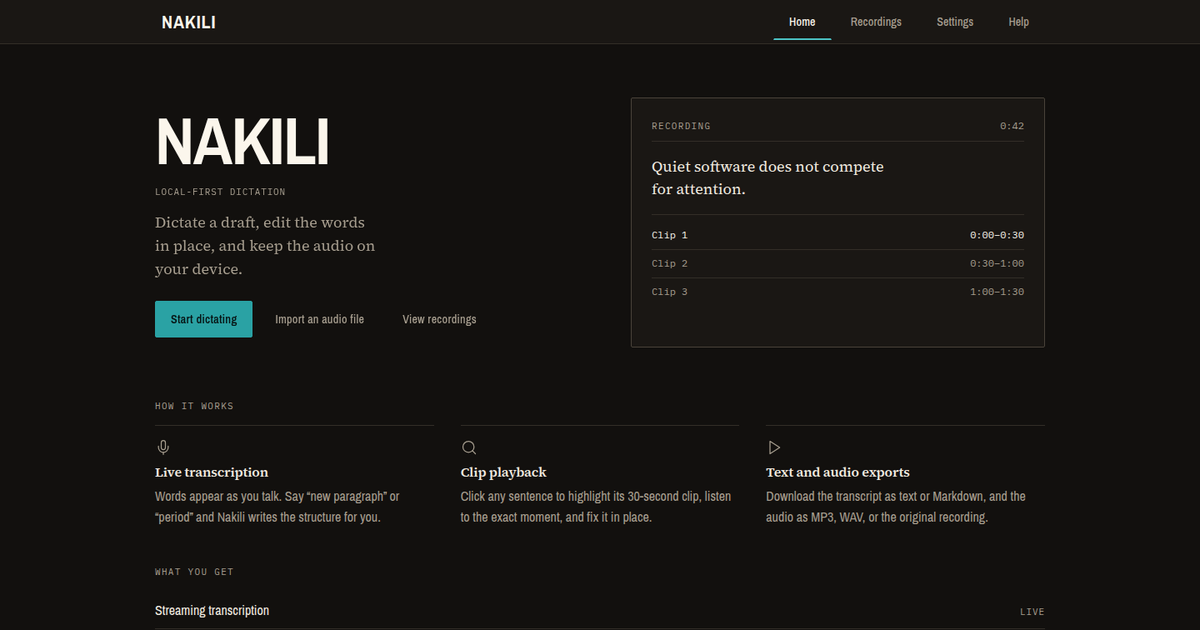
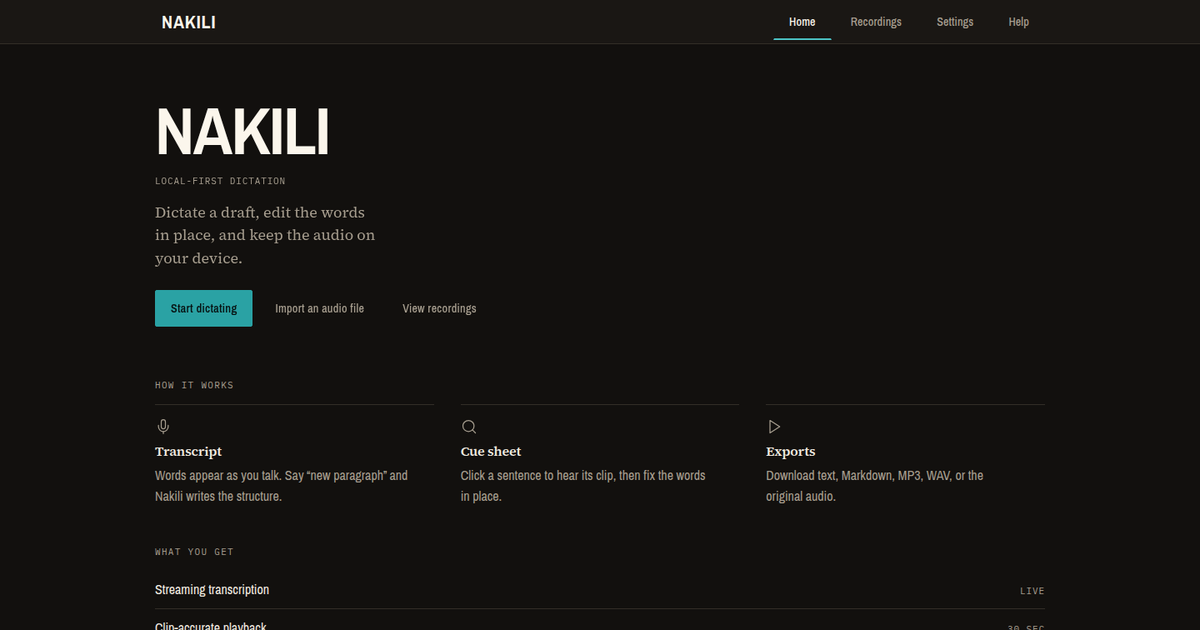
fix: welcome page and switches — remove the landing preview card, replace the square-thumb toggle with a standard teal switch, and drop the dead preview styles

diff --git a/src/styles/global.css b/src/styles/global.css
@@ -55,6 +55,7 @@
   --cta-fg: #071414;
   --danger: #b3261e;
   --ring: #1f7f81;
+  --switch-thumb: #f7f8f4;
 
   --font-ui: 'Archivo Narrow', 'Arial Narrow', system-ui, sans-serif;
   --font-body: var(--font-ui);
@@ -237,6 +238,49 @@ input[type="text"]:focus-visible, textarea:focus-visible, select:focus-visible {
 }
 .field-area { width: 100%; min-height: 120px; }
 .field-area-mono { font-family: var(--font-mono); font-size: 13px; }
+
+.toggle-row {
+  display: flex; align-items: center; justify-content: space-between;
+  gap: var(--space-md); min-height: 44px;
+}
+.toggle {
+  width: 56px; min-width: 56px;
+  height: 44px; min-height: 44px;
+  padding: 0;
+  border: none;
+  background: transparent;
+}
+.toggle:hover,
+.toggle:active:not(:disabled) {
+  background: transparent;
+  border-color: transparent;
+}
+.toggle-track {
+  position: relative;
+  display: block;
+  width: 44px; height: 24px;
+  border: 1px solid var(--border-visible);
+  border-radius: 999px;
+  background: var(--surface-raised);
+  transition: background-color var(--speed-out), border-color var(--speed-out);
+}
+.toggle-thumb {
+  position: absolute; top: 2px; left: 2px;
+  width: 18px; height: 18px;
+  border-radius: 50%;
+  background: var(--switch-thumb);
+  transition: transform var(--speed-out);
+}
+.toggle.on .toggle-track {
+  background: var(--accent);
+  border-color: var(--accent);
+}
+.toggle.on .toggle-thumb { transform: translateX(20px); }
+.toggle:hover .toggle-track { border-color: var(--text-secondary); }
+.toggle.on:hover .toggle-track {
+  background: var(--accent-strong);
+  border-color: var(--accent-strong);
+}
 
 html { height: 100%; }
 body { margin: 0; min-height: 100%; }
@@ -558,23 +602,20 @@ dialog[open] { animation: dialog-in var(--speed) ease-out; }
   padding: var(--space-xl) 0 var(--space-3xl);
 }
 .hero {
-  display: grid;
-  grid-template-columns: minmax(0, 1fr) minmax(320px, 0.95fr);
-  gap: var(--space-2xl);
-  align-items: center;
+  display: block;
   padding: var(--space-sm) 0 var(--space-md);
 }
-.hero-copy { min-width: 0; }
-.hero-copy, .hero-preview {
+.hero-copy {
+  min-width: 0;
+  max-width: 60ch;
   animation: hero-in 420ms cubic-bezier(0.2, 0.8, 0.2, 1) both;
 }
-.hero-preview { animation-delay: 80ms; }
 @keyframes hero-in {
   from { transform: translateY(8px); }
   to { transform: none; }
 }
 @media (prefers-reduced-motion: reduce) {
-  .hero-copy, .hero-preview { animation: none; }
+  .hero-copy { animation: none; }
 }
 .hero-actions {
   display: flex; flex-wrap: wrap; align-items: center;
@@ -608,51 +649,6 @@ dialog[open] { animation: dialog-in var(--speed) ease-out; }
   margin: 0 0 var(--space-lg);
   text-wrap: pretty;
 }
-.hero-preview {
-  display: grid; align-content: start; gap: var(--space-md);
-  min-height: 300px;
-  padding: var(--space-lg);
-  border: 1px solid var(--border-visible);
-  border-radius: 2px;
-  background: var(--surface);
-}
-.preview-bar {
-  display: flex; align-items: center; justify-content: space-between;
-  gap: var(--space-md);
-  padding-bottom: var(--space-sm);
-  border-bottom: 1px solid var(--border);
-}
-.preview-time {
-  font-family: var(--font-mono);
-  font-size: var(--caption);
-  color: var(--text-secondary);
-  font-variant-numeric: tabular-nums;
-}
-.preview-text {
-  margin: 0;
-  max-width: 34ch;
-  font-family: var(--font-reading);
-  font-size: var(--subheading);
-  line-height: 1.55;
-  color: var(--text-primary);
-  text-wrap: pretty;
-}
-.preview-clips {
-  display: grid; gap: 0;
-  padding-top: var(--space-sm);
-  border-top: 1px solid var(--border);
-}
-.preview-clip {
-  display: flex; align-items: baseline; justify-content: space-between;
-  gap: var(--space-md);
-  padding: 7px 0;
-  border-bottom: 1px solid var(--border);
-  font-family: var(--font-mono);
-  font-size: var(--caption);
-  color: var(--text-secondary);
-}
-.preview-clip:last-child { border-bottom: none; }
-.preview-clip.on { color: var(--text-display); }
 .landing-section { margin-top: var(--space-2xl); }
 .landing-close {
   display: flex; flex-wrap: wrap; align-items: center;
@@ -774,10 +770,6 @@ dialog[open] { animation: dialog-in var(--speed) ease-out; }
   }
 }
 
-@media (max-width: 860px) {
-  .hero { grid-template-columns: 1fr; gap: var(--space-xl); }
-}
-
 @media (max-width: 640px) {
   .app-header .shell-inner { gap: var(--space-sm); }
   .brand { font-size: 18px; padding: 4px 6px; }
@@ -787,8 +779,6 @@ dialog[open] { animation: dialog-in var(--speed) ease-out; }
     padding: 8px 8px;
     font-size: 13px;
   }
-  .header-nav button[aria-current='page']::before,
-  .header-nav button[aria-current='page']::after { content: none; }
   .app-footer .shell-inner { flex-direction: column; align-items: flex-start; }
   .app-footer .shell-inner > span:first-child { flex: 0 0 auto; }
   .footer-controls { width: 100%; justify-content: flex-start; }
@@ -800,7 +790,6 @@ dialog[open] { animation: dialog-in var(--speed) ease-out; }
   .footer-controls a { padding: 0; }
   .view { padding: var(--space-lg) var(--space-md) 96px; }
   .landing { padding: var(--space-lg) 0 var(--space-2xl); }
-  .hero-preview { min-height: 0; padding: var(--space-md); }
   .steps { grid-template-columns: 1fr; gap: var(--space-md); }
   .steps > div { padding-top: var(--space-sm); }
   .editor-heading { order: 3; flex-basis: 100%; }

diff --git a/src/ui/Toggle.tsx b/src/ui/Toggle.tsx
@@ -1,7 +1,7 @@
 import { useEffect, useRef, useState } from 'react';
 
 /**
- * Broadcast Desk toggle: pill track, square-ended thumb.
+ * Broadcast Desk switch: a standard track-and-thumb toggle.
  * Instant-save semantics — writes the backing key on change.
  */
 export function Toggle({
@@ -28,12 +28,14 @@ export function Toggle({
   }, [on]);
 
   return (
-    <div style={{ display: 'flex', alignItems: 'center', justifyContent: 'space-between', gap: 12, minHeight: 44 }}>
+    <div className="toggle-row">
       <span className="label">{label}</span>
       <button
+        type="button"
         role="switch"
         aria-checked={on}
         aria-label={label}
+        className={`toggle${on ? ' on' : ''}`}
         onClick={() => {
           const next = !on;
           setOn(next);
@@ -43,29 +45,10 @@ export function Toggle({
             /* ignore */
           }
         }}
-        style={{
-          width: 56,
-          minWidth: 56,
-          padding: 2,
-          height: 28,
-          minHeight: 28,
-          borderRadius: 999,
-          borderColor: on ? 'var(--text-display)' : 'var(--border-visible)',
-          background: on ? 'var(--text-display)' : 'transparent',
-        }}
       >
-        <span
-          aria-hidden="true"
-          style={{
-            display: 'block',
-            width: 22,
-            height: 22,
-            borderRadius: 2,
-            marginLeft: on ? 'auto' : 0,
-            background: on ? 'var(--bg)' : 'var(--text-disabled)',
-            transition: 'margin-left var(--speed)',
-          }}
-        />
+        <span className="toggle-track" aria-hidden="true">
+          <span className="toggle-thumb" />
+        </span>
       </button>
     </div>
   );

diff --git a/src/features/library/Landing.tsx b/src/features/library/Landing.tsx
@@ -50,21 +50,6 @@ export function Landing({
             </p>
           )}
         </div>
-
-        <div className="hero-preview" aria-hidden="true">
-          <div className="preview-bar">
-            <span className="label">Recording</span>
-            <span className="preview-time">0:42</span>
-          </div>
-          <p className="preview-text">
-            Quiet software does not compete for attention.
-          </p>
-          <div className="preview-clips">
-            <span className="preview-clip on"><span>Clip 1</span><span>0:00–0:30</span></span>
-            <span className="preview-clip"><span>Clip 2</span><span>0:30–1:00</span></span>
-            <span className="preview-clip"><span>Clip 3</span><span>1:00–1:30</span></span>
-          </div>
-        </div>
       </section>
 
       <section aria-label="How it works" className="landing-section">
